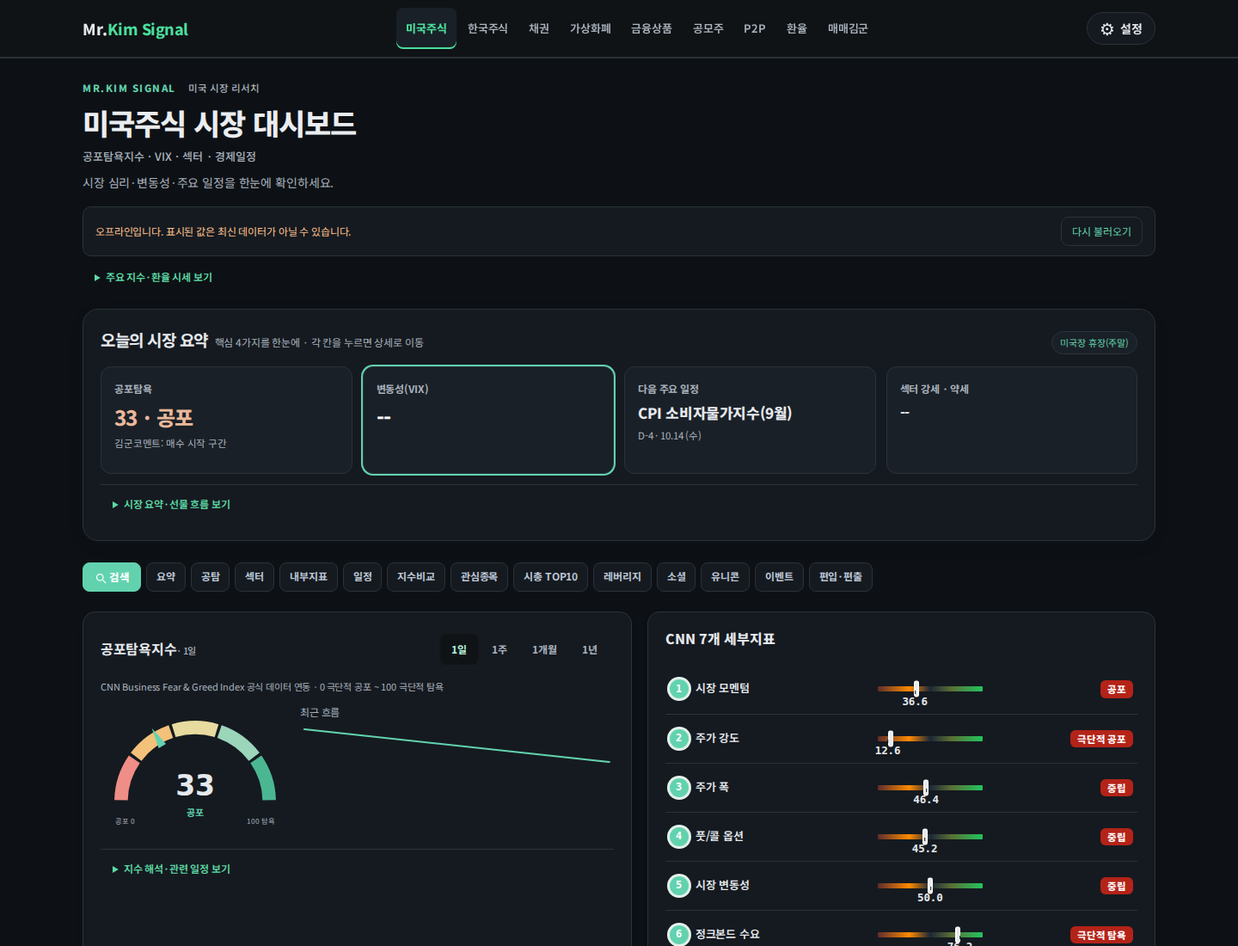
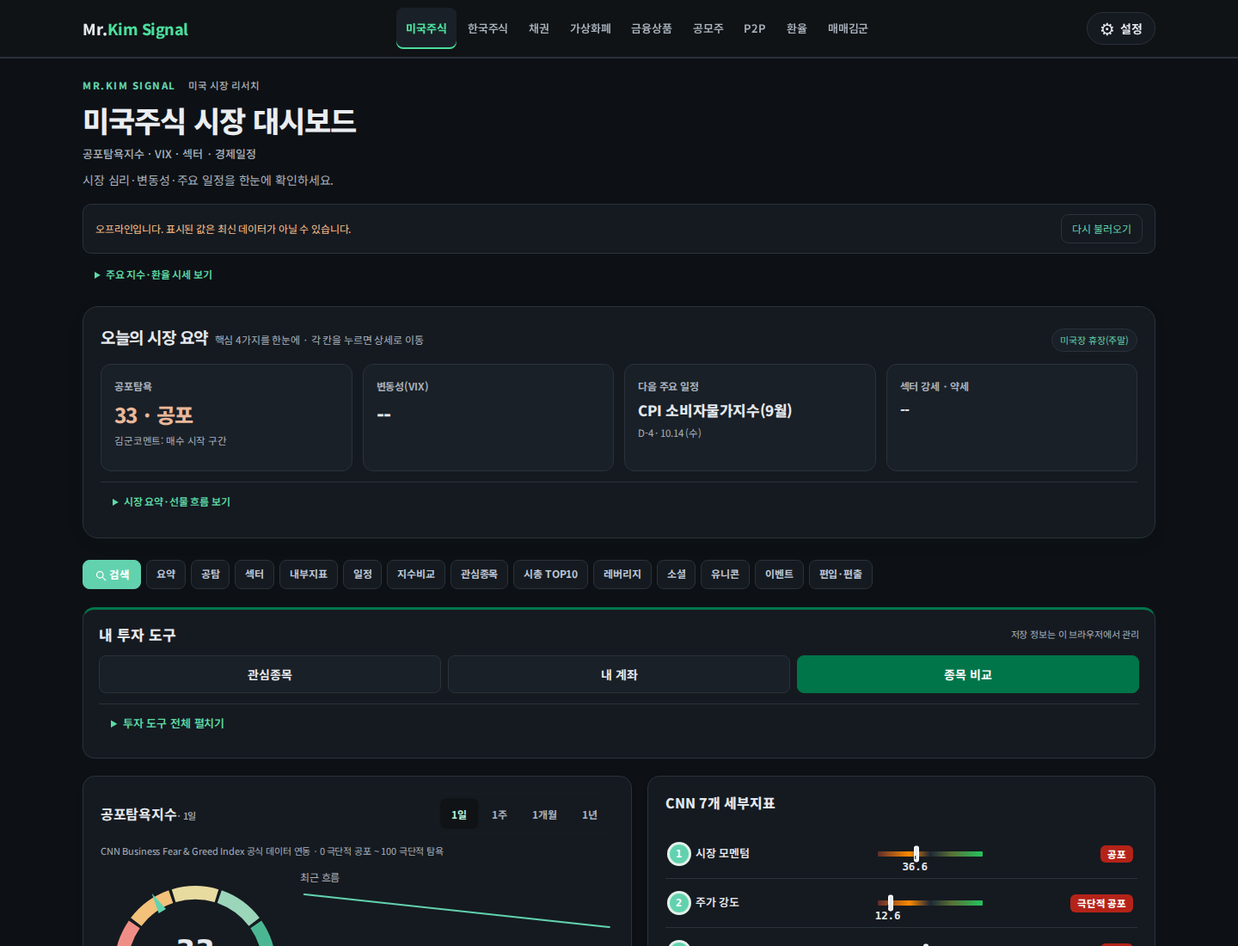
Add files via upload

diff --git a/stock-fold-v46.js b/stock-fold-v46.js
@@ -1,0 +1,62 @@
+/* 섹션 접기/펼치기 — 동일한 제목 바(폰트 20px·줄간격 1.4), 좌측 포인트 선, 요약 칩, 펼치기/접기 버튼. 기본은 접힘 */
+(function(){
+  const KR=document.body.classList.contains('kr');
+  const SUM_KR={
+    '투자자별 매매 동향 · 증시자금동향':()=>'개인·외국인·기관 · 예탁금·신용잔고',
+    '코스피·코스닥·대표종목 상대수익률 비교':()=>'그래프 + 상관관계',
+    '시가총액 TOP10 (코스피)':()=>'TOP10 (+11~20위)',
+    '시가총액 TOP10 (코스닥)':()=>'TOP10 (+11~20위)',
+    '레버리지 ETF':()=>'7종목 · 2배 레버리지',
+    '주요 이벤트 일정':()=>(new Date().getMonth()+1)+'월 일정 · 휴장일 · 월별 보기',
+    'KOSPI200 편입 · 편출 종목':()=>document.querySelectorAll('#kridx-tbl .wl-row').length+'종목 · 2025.12 · 2026.6 정기변경'
+  };
+  const SUM_US={
+    '주요 지수 ETF 상대수익률 비교':()=>'지수 5종 · 그래프 + 상관관계',
+    '김군 관심종목':()=>document.querySelectorAll('#tick-tbl .wl-row').length+'종목',
+    '시가총액 TOP10':()=>'TOP10 (+11~30위)',
+    '레버리지 ETF':()=>document.querySelectorAll('#lev-tbl .wl-row').length+'종목',
+    '유니콘 기업':()=>document.querySelectorAll('#unicorn .grid>.card').length+'개사',
+    '소셜 언급':()=>window.MK_SOC_SUM||'StockTwits 강세·약세 · Reddit 언급',
+    '주요 이벤트 일정':()=>(new Date().getMonth()+1)+'월 일정 · 휴장일 · 월별 보기',
+    '지수 편입 · 편출 종목':()=>document.querySelectorAll('#idxchg-tbl .wl-row').length+'종목 · S&P500·나스닥100'
+  };
+  const SUM=KR?SUM_KR:SUM_US;
+  function fold(h2){
+    if(!h2||h2.dataset.fold) return; h2.dataset.fold='1';
+    const nodes=[]; let n=h2.nextElementSibling;
+    while(n && n.tagName!=='H2'){ nodes.push(n); n=n.nextElementSibling; }
+    const box=document.createElement('div'); box.className='fold-body'; h2.after(box); nodes.forEach(x=>box.appendChild(x));
+    const title=h2.textContent.replace(/\s+/g,' ').trim();
+    const key=Object.keys(SUM).find(k=>title.indexOf(k)===0);
+    h2.className='fold-h'; h2.removeAttribute('style'); h2.id=h2.id||''; 
+    const FL=KR?' 🇰🇷':' 🇺🇸';
+    const flag=(title.indexOf('🇺🇸')>=0||title.indexOf('🇰🇷')>=0||key)?FL:'';
+    h2.innerHTML='<span class="fold-t">'+(key||title)+flag+'</span><span class="fold-sum"></span><button type="button" class="fold-btn"><em>펼치기</em> ➕</button>';
+    /* 제목(h2)의 의미는 유지하고, 펼침 조작은 안의 실제 버튼이 맡는다(키보드·스크린리더 접근) */
+    h2.cursor='pointer';
+    const sum=h2.querySelector('.fold-sum'), btn=h2.querySelector('.fold-btn'); btn.setAttribute('aria-expanded','false'); box.id=box.id||('fold-body-'+Math.random().toString(36).slice(2,8)); btn.setAttribute('aria-controls',box.id); btn.setAttribute('aria-label',(key||title)+' 펼치기/접기');
+    const LST=KR?{'시가총액 TOP10 (코스피)':'krcap-tbl','시가총액 TOP10 (코스닥)':'krkq-tbl','레버리지 ETF':'krlev-tbl'}:{'김군 관심종목':'tick-tbl','시가총액 TOP10':'cap-tbl','레버리지 ETF':'lev-tbl'};
+    const movers=id=>{ const a=[]; document.querySelectorAll('#'+id+' .wl-row').forEach(r=>{ const c=r.querySelector('.ch'); if(!c) return; const m=c.textContent.match(/([\d.]+)\s*%/); if(!m) return; const v=parseFloat(m[1])*(/▼|-|−/.test(c.textContent)?-1:1); a.push([r.dataset.t,v]); }); if(a.length<2) return ''; a.sort((x,y)=>y[1]-x[1]); const u=a[0],d=a[a.length-1]; const f=x=>(x[1]>=0?'▲':'▼')+Math.abs(x[1]).toFixed(2)+'%'; const up=a.filter(x=>x[1]>0).length, dn=a.filter(x=>x[1]<0).length; return '<span class="mv"><span class="mv-l">상승 '+up+' · 하락 '+dn+'</span><span class="mv-u">'+u[0]+' '+f(u)+'</span><span class="mv-d">'+d[0]+' '+f(d)+'</span></span>'; };
+    const refresh=()=>{ const id=LST[key]; const h=id?movers(id):''; if(h) sum.innerHTML=h; else sum.textContent=key?SUM[key]():''; };
+    refresh(); [1500,4000,9000].forEach(t=>setTimeout(refresh,t)); setInterval(refresh,15000);
+    const SK=(KR?'mk_fk_':'mk_f_')+(key||title); const set=open=>{ try{ localStorage.setItem(SK,open?'1':'0'); }catch(e){} box.style.display=open?'block':'none'; btn.innerHTML=open?'<em>접기</em> ➖':'<em>펼치기</em> ➕'; btn.setAttribute('aria-expanded',open?'true':'false'); h2.classList.toggle('open',open); refresh(); };
+    let init=false; try{ init=localStorage.getItem(SK)==='1'; }catch(e){}
+    set(init);
+    const tg=e=>{ if(e.target.closest('a')) return; set(box.style.display==='none'); };
+    h2.addEventListener('click',tg);
+    h2._set=set;
+  }
+  document.querySelectorAll('#stock > .wrap > h2, #unicorn > .wrap > h2, #events > .wrap > h2, #kr-stock > .wrap > h2').forEach(fold);
+  const all=[...document.querySelectorAll('h2.fold-h')];
+  if(all[0]){ const bar=document.createElement('div'); bar.className='fold-all'; bar.innerHTML='<button type="button" data-o="1">모두 펼치기 ➕</button><button type="button" data-o="0">모두 접기 ➖</button>'; all[0].before(bar); bar.addEventListener('click',e=>{ const b=e.target.closest('button'); if(!b) return; all.forEach(h=>h._set(b.dataset.o==='1')); }); }
+  const openByHash=()=>{ const h=location.hash&&document.querySelector(location.hash); if(h&&h._set) h._set(true); };
+  openByHash(); window.addEventListener('hashchange',openByHash);
+  /* 지연 로딩: 섹션을 처음 펼칠 때(또는 저장된 상태가 '펼침'일 때) 해당 데이터를 불러온다 */
+  (KR?[]:[['주요 지수 ETF',()=>{ loadIdxRelUS(); loadUSCorr(); }],['지수 편입',()=>loadTickGroup('idxchg')],['유니콘',()=>loadUnicornNews()]]).forEach(([k,fn])=>{
+    let done=false; const run=()=>{ if(done) return; done=true; try{ fn(); }catch(e){ console.warn('지연 로딩 실패',k,e); } };
+    const h=all.find(x=>{ const t=x.querySelector('.fold-t'); return t&&t.textContent.trim().indexOf(k)===0; });
+    if(!h){ run(); return; }
+    if(h.classList.contains('open')) run();
+    else new MutationObserver(()=>{ if(h.classList.contains('open')) run(); }).observe(h,{attributes:true,attributeFilter:['class']});
+  });
+})();

diff --git a/stock-fold-v45.js b/stock-fold-v45.js
@@ -1,0 +1,62 @@
+/* 섹션 접기/펼치기 — 동일한 제목 바(폰트 20px·줄간격 1.4), 좌측 포인트 선, 요약 칩, 펼치기/접기 버튼. 기본은 접힘 */
+(function(){
+  const KR=document.body.classList.contains('kr');
+  const SUM_KR={
+    '투자자별 매매 동향 · 증시자금동향':()=>'개인·외국인·기관 · 예탁금·신용잔고',
+    '코스피·코스닥·대표종목 상대수익률 비교':()=>'그래프 + 상관관계',
+    '시가총액 TOP10 (코스피)':()=>'TOP10 (+11~20위)',
+    '시가총액 TOP10 (코스닥)':()=>'TOP10 (+11~20위)',
+    '레버리지 ETF':()=>'7종목 · 2배 레버리지',
+    '주요 이벤트 일정':()=>(new Date().getMonth()+1)+'월 일정 · 휴장일 · 월별 보기',
+    'KOSPI200 편입 · 편출 종목':()=>document.querySelectorAll('#kridx-tbl .wl-row').length+'종목 · 2025.12 · 2026.6 정기변경'
+  };
+  const SUM_US={
+    '주요 지수 ETF 상대수익률 비교':()=>'지수 5종 · 그래프 + 상관관계',
+    '김군 관심종목':()=>document.querySelectorAll('#tick-tbl .wl-row').length+'종목',
+    '시가총액 TOP10':()=>'TOP10 (+11~30위)',
+    '레버리지 ETF':()=>document.querySelectorAll('#lev-tbl .wl-row').length+'종목',
+    '유니콘 기업':()=>'4개사 · Anthropic · OpenAI · Databricks · xAI',
+    '소셜 언급':()=>window.MK_SOC_SUM||'StockTwits 강세·약세 · Reddit 언급',
+    '주요 이벤트 일정':()=>(new Date().getMonth()+1)+'월 일정 · 휴장일 · 월별 보기',
+    '지수 편입 · 편출 종목':()=>document.querySelectorAll('#idxchg-tbl .wl-row').length+'종목 · S&P500·나스닥100'
+  };
+  const SUM=KR?SUM_KR:SUM_US;
+  function fold(h2){
+    if(!h2||h2.dataset.fold) return; h2.dataset.fold='1';
+    const nodes=[]; let n=h2.nextElementSibling;
+    while(n && n.tagName!=='H2'){ nodes.push(n); n=n.nextElementSibling; }
+    const box=document.createElement('div'); box.className='fold-body'; h2.after(box); nodes.forEach(x=>box.appendChild(x));
+    const title=h2.textContent.replace(/\s+/g,' ').trim();
+    const key=Object.keys(SUM).find(k=>title.indexOf(k)===0);
+    h2.className='fold-h'; h2.removeAttribute('style'); h2.id=h2.id||''; 
+    const FL=KR?' 🇰🇷':' 🇺🇸';
+    const flag=(title.indexOf('🇺🇸')>=0||title.indexOf('🇰🇷')>=0||key)?FL:'';
+    h2.innerHTML='<span class="fold-t">'+(key||title)+flag+'</span><span class="fold-sum"></span><button type="button" class="fold-btn"><em>펼치기</em> ➕</button>';
+    /* 제목(h2)의 의미는 유지하고, 펼침 조작은 안의 실제 버튼이 맡는다(키보드·스크린리더 접근) */
+    h2.cursor='pointer';
+    const sum=h2.querySelector('.fold-sum'), btn=h2.querySelector('.fold-btn'); btn.setAttribute('aria-expanded','false'); box.id=box.id||('fold-body-'+Math.random().toString(36).slice(2,8)); btn.setAttribute('aria-controls',box.id); btn.setAttribute('aria-label',(key||title)+' 펼치기/접기');
+    const LST=KR?{'시가총액 TOP10 (코스피)':'krcap-tbl','시가총액 TOP10 (코스닥)':'krkq-tbl','레버리지 ETF':'krlev-tbl'}:{'김군 관심종목':'tick-tbl','시가총액 TOP10':'cap-tbl','레버리지 ETF':'lev-tbl'};
+    const movers=id=>{ const a=[]; document.querySelectorAll('#'+id+' .wl-row').forEach(r=>{ const c=r.querySelector('.ch'); if(!c) return; const m=c.textContent.match(/([\d.]+)\s*%/); if(!m) return; const v=parseFloat(m[1])*(/▼|-|−/.test(c.textContent)?-1:1); a.push([r.dataset.t,v]); }); if(a.length<2) return ''; a.sort((x,y)=>y[1]-x[1]); const u=a[0],d=a[a.length-1]; const f=x=>(x[1]>=0?'▲':'▼')+Math.abs(x[1]).toFixed(2)+'%'; const up=a.filter(x=>x[1]>0).length, dn=a.filter(x=>x[1]<0).length; return '<span class="mv"><span class="mv-l">상승 '+up+' · 하락 '+dn+'</span><span class="mv-u">'+u[0]+' '+f(u)+'</span><span class="mv-d">'+d[0]+' '+f(d)+'</span></span>'; };
+    const refresh=()=>{ const id=LST[key]; const h=id?movers(id):''; if(h) sum.innerHTML=h; else sum.textContent=key?SUM[key]():''; };
+    refresh(); [1500,4000,9000].forEach(t=>setTimeout(refresh,t)); setInterval(refresh,15000);
+    const SK=(KR?'mk_fk_':'mk_f_')+(key||title); const set=open=>{ try{ localStorage.setItem(SK,open?'1':'0'); }catch(e){} box.style.display=open?'block':'none'; btn.innerHTML=open?'<em>접기</em> ➖':'<em>펼치기</em> ➕'; btn.setAttribute('aria-expanded',open?'true':'false'); h2.classList.toggle('open',open); refresh(); };
+    let init=false; try{ init=localStorage.getItem(SK)==='1'; }catch(e){}
+    set(init);
+    const tg=e=>{ if(e.target.closest('a')) return; set(box.style.display==='none'); };
+    h2.addEventListener('click',tg);
+    h2._set=set;
+  }
+  document.querySelectorAll('#stock > .wrap > h2, #unicorn > .wrap > h2, #events > .wrap > h2, #kr-stock > .wrap > h2').forEach(fold);
+  const all=[...document.querySelectorAll('h2.fold-h')];
+  if(all[0]){ const bar=document.createElement('div'); bar.className='fold-all'; bar.innerHTML='<button type="button" data-o="1">모두 펼치기 ➕</button><button type="button" data-o="0">모두 접기 ➖</button>'; all[0].before(bar); bar.addEventListener('click',e=>{ const b=e.target.closest('button'); if(!b) return; all.forEach(h=>h._set(b.dataset.o==='1')); }); }
+  const openByHash=()=>{ const h=location.hash&&document.querySelector(location.hash); if(h&&h._set) h._set(true); };
+  openByHash(); window.addEventListener('hashchange',openByHash);
+  /* 지연 로딩: 섹션을 처음 펼칠 때(또는 저장된 상태가 '펼침'일 때) 해당 데이터를 불러온다 */
+  (KR?[]:[['주요 지수 ETF',()=>{ loadIdxRelUS(); loadUSCorr(); }],['지수 편입',()=>loadTickGroup('idxchg')],['유니콘',()=>loadUnicornNews()]]).forEach(([k,fn])=>{
+    let done=false; const run=()=>{ if(done) return; done=true; try{ fn(); }catch(e){ console.warn('지연 로딩 실패',k,e); } };
+    const h=all.find(x=>{ const t=x.querySelector('.fold-t'); return t&&t.textContent.trim().indexOf(k)===0; });
+    if(!h){ run(); return; }
+    if(h.classList.contains('open')) run();
+    else new MutationObserver(()=>{ if(h.classList.contains('open')) run(); }).observe(h,{attributes:true,attributeFilter:['class']});
+  });
+})();

diff --git a/stock-tools-v46.css b/stock-tools-v46.css
@@ -1,0 +1,45 @@
+html body.pro.stock-v2 .stock-tools-hub{margin:16px 0 20px;padding:18px;background:var(--panel);border:1px solid var(--line);border-top:3px solid #00754a;border-radius:14px;min-width:0;box-sizing:border-box}
+html body.pro.stock-v2 .stock-tools-heading{display:flex;align-items:center;justify-content:space-between;gap:8px;flex-wrap:wrap;margin-bottom:12px}
+html body.pro.stock-v2 .stock-tools-heading h2{font-size:18px!important;font-weight:800!important;margin:0!important;color:var(--tx)}
+html body.pro.stock-v2 .stock-tools-heading>span{font-size:11px;color:var(--tx2)}
+html body.pro.stock-v2 .stock-tools-links{display:grid;grid-template-columns:repeat(3,minmax(0,1fr));gap:8px}
+html body.pro.stock-v2 .stock-tools-links button{min-height:44px;padding:9px 8px;background:var(--panel2);color:var(--tx);border:1px solid var(--line);border-radius:8px;font-weight:700;font-size:14px;cursor:pointer;box-sizing:border-box}
+html body.pro.stock-v2 .stock-tools-links button:is(.on,:hover,:focus-visible){background:#00754a!important;color:#fff!important;border-color:#00754a}
+html body.pro.stock-v2 .stock-tools-hub .stock-personal-details{margin:12px 0 0!important;padding:0!important;border:0;border-radius:0;background:transparent}
+html body.pro.stock-v2 .stock-tools-hub .stock-personal-details>summary{font-size:13px!important;font-weight:600!important;color:var(--tx2);min-height:44px;border-top:1px solid var(--line);border-radius:0!important}
+html body.pro.stock-v2 .stock-tools-hub :is(#my-wl,#mk-acct,#mk-cmp){scroll-margin-top:150px;margin-top:16px!important;min-width:0;box-sizing:border-box}
+html body.pro.stock-v2 .stock-tool-selected{outline:2px solid #00754a;outline-offset:2px}
+html body.pro.stock-v2 .stock-tool-field{display:flex;flex-direction:column;gap:5px;min-width:0;flex:1 1 120px;font-size:12px;font-weight:700;color:var(--tx2)}
+html body.pro.stock-v2 .stock-tool-field input{width:100%!important;min-width:0!important;box-sizing:border-box;font-size:14px!important;min-height:44px!important;margin:0!important}
+html body.pro.stock-v2 #my-wl .my-add{align-items:end}
+html body.pro.stock-v2 #my-wl .my-add>button{min-height:44px}
+html body.pro.stock-v2 #mk-acct .ac-add,html body.pro.stock-v2 #mk-cmp .cm-f{display:grid;grid-template-columns:repeat(3,minmax(0,1fr)) auto;align-items:end;gap:10px}
+html body.pro.stock-v2 :is(.ac-add,.cm-f)>button{min-height:44px;padding:8px 14px}
+html body.pro.stock-v2 .stock-tools-hub .card>h3{line-height:1.5;gap:8px;flex-wrap:wrap}
+@media(max-width:700px){
+ html body.pro.stock-v2 .stock-tools-hub{padding:14px;margin:14px 0 18px}
+ html body.pro.stock-v2 .stock-tools-heading{align-items:start;flex-direction:column}
+ html body.pro.stock-v2 .stock-tools-links{gap:6px}
+ html body.pro.stock-v2 .stock-tools-links button{font-size:13px;padding:8px 4px}
+ html body.pro.stock-v2 .stock-tools-hub :is(#my-wl,#mk-acct,#mk-cmp){scroll-margin-top:88px;padding:14px!important}
+ html body.pro.stock-v2 #mk-acct .ac-add{grid-template-columns:repeat(2,minmax(0,1fr))}
+ html body.pro.stock-v2 #mk-acct .ac-add>.stock-tool-field:first-child{grid-column:1/-1}
+ html body.pro.stock-v2 #mk-cmp .cm-f{grid-template-columns:repeat(3,minmax(0,1fr));gap:6px}
+ html body.pro.stock-v2 #mk-cmp .cm-f>button{grid-column:1/-1}
+ html body.pro.stock-v2 .stock-tools-hub .stock-personal-details>summary{font-size:12px!important;padding:12px 6px!important}
+}
+html body.pro.stock-v2 .stock-tool-field input{flex:0 0 44px!important;height:44px!important;max-height:44px!important}
+html body.pro.stock-v2 #ac-b td[colspan]{white-space:normal!important;overflow-wrap:anywhere;line-height:1.7}
+html body.pro.stock-v2 #my-wl .wl-list{display:block!important}
+html body.pro.stock-v2 #mk-acct .stock-tools-note{margin-top:12px;border-top:1px solid var(--line)}
+html body.pro.stock-v2 #mk-acct .stock-tools-note>summary{font-size:12px;color:var(--tx2);cursor:pointer;min-height:44px}
+html body.pro.stock-v2 .stock-tools-hub .card>h3>span:first-child{display:inline-flex;align-items:center;gap:7px}
+html body.pro.stock-v2 .stock-tool-icon{width:19px;height:19px;flex:none;fill:none;stroke:currentColor;stroke-width:1.7;stroke-linecap:round;stroke-linejoin:round}
+@media(max-width:700px){
+ html body.pro.stock-v2 #mk-acct .ac-t th:nth-child(1){width:24%}
+ html body.pro.stock-v2 #mk-acct .ac-t th:nth-child(4){width:18%}
+ html body.pro.stock-v2 #mk-acct .ac-t th:nth-child(5){width:20%}
+ html body.pro.stock-v2 #mk-acct .ac-t th:nth-child(6){width:18%}
+ html body.pro.stock-v2 #mk-acct .ac-t th:nth-child(9){width:20%;white-space:normal!important}
+ html body.pro.stock-v2 #mk-acct .ac-t th{font-size:11px!important;line-height:1.5}
+}

diff --git a/stock.html b/stock.html
@@ -4,8 +4,8 @@
 
 <meta charset="utf-8">
 <meta http-equiv="Content-Security-Policy" content="default-src 'self'; script-src 'self' 'unsafe-inline'; style-src 'self' 'unsafe-inline' https://fonts.googleapis.com; font-src 'self' https://fonts.gstatic.com data:; img-src 'self' data: https:; connect-src 'self' https://ai.coolzet.workers.dev; media-src 'none'; object-src 'none'; base-uri 'self'; form-action 'self'">
-<script src="stock-bootstrap.js?v=44"></script>
-<script src="stock-security.js?v=44"></script>
+<script src="stock-bootstrap.js?v=46"></script>
+<script src="stock-security.js?v=46"></script>
 <meta name="referrer" content="strict-origin-when-cross-origin">
 <meta name="viewport" content="width=device-width, initial-scale=1">
 <link rel="preconnect" href="https://fonts.googleapis.com">
@@ -353,7 +353,7 @@ footer{border-top:1px solid var(--line);padding:30px 0 44px;color:var(--tx2);fon
 .hm-kw{display:flex;gap:10px;flex-wrap:wrap;margin-bottom:12px}.hm-kw .hm-k{flex:1 1 320px;margin-bottom:0;min-width:0}
 #stock{padding-top:18px!important}#stock>.wrap>.sec-h{margin-bottom:0}#stock>.wrap>.sec-h .sub{margin-bottom:10px}
 @media(max-width:700px){#stock{padding-top:12px!important}}
-</style><link href="https://fonts.googleapis.com/css2?family=Noto+Sans+KR:wght@400;500;700&family=JetBrains+Mono:wght@400;500;700&display=swap" rel="stylesheet"><link rel="stylesheet" href="mrkim-pro.css?v=09442417"><link rel="stylesheet" href="mrkim-theme.css?v=1399affe"><script defer src="stock-gate-legacy.js?v=44"></script>
+</style><link href="https://fonts.googleapis.com/css2?family=Noto+Sans+KR:wght@400;500;700&family=JetBrains+Mono:wght@400;500;700&display=swap" rel="stylesheet"><link rel="stylesheet" href="mrkim-pro.css?v=09442417"><link rel="stylesheet" href="mrkim-theme.css?v=1399affe"><script defer src="stock-gate-legacy.js?v=46"></script>
 <style>
 /* 시장 한눈에 보기: 티커명 영역 높이 고정(글자 크기가 달라도 가격 블록 시작 위치 동일) · 등락 화살표 */
 .pulse .hm div.tl>span{display:flex;align-items:center;height:38px;padding-top:0;padding-bottom:0;line-height:1.2;box-sizing:border-box}
@@ -365,9 +365,11 @@ footer{border-top:1px solid var(--line);padding:30px 0 44px;color:var(--tx2);fon
 /* 탭이 많아지면 줄바꿈 */
 .pulse .hm-t{flex-wrap:wrap!important;row-gap:6px}
 </style>
-<link rel="stylesheet" href="stock-design-v2.css?v=44">
-<link rel="stylesheet" href="stock-layout-v3.css?v=44">
-<link rel="stylesheet" href="stock-fixes-v44.css?v=44">
+<link rel="stylesheet" href="stock-design-v2.css?v=46">
+<link rel="stylesheet" href="stock-layout-v3.css?v=46">
+<link rel="stylesheet" href="stock-fixes-v44.css?v=46">
+<link rel="stylesheet" href="stock-alignment-v45.css?v=46">
+<link rel="stylesheet" href="stock-tools-v46.css?v=46">
 </head>
 <body class="pro stock-v2">
 <a class="skip-link" href="#main">본문으로 건너뛰기</a>
@@ -779,22 +781,23 @@ footer{border-top:1px solid var(--line);padding:30px 0 44px;color:var(--tx2);fon
   </div>
 </footer>
 
-<script defer src="stock-common-v2.js?v=44"></script>
+<script defer src="stock-common-v2.js?v=46"></script>
 <script defer src="mrkim-pro.min.js?v=43c2f41f"></script>
 <script defer src="stock-page.js?v=ece9162e"></script>
 <script defer src="stock-fin.js?v=e8bfc40c"></script>
 <script defer src="stock-etf.js?v=8ebf5e9a"></script>
 
-<script defer src="stock-fold.js?v=f46fb660"></script>
+<script defer src="stock-fold-v46.js?v=46"></script>
 <script defer src="stock-pulse.js?v=d52a2b42"></script>
 <script defer src="stock-mobile.js?v=181f1920"></script>
-<script defer src="stock-ux-v2.js?v=44"></script>
+<script defer src="stock-ux-v2.js?v=46"></script>
 <script defer src="stock-asof.js?v=e2fd5216"></script>
 <script defer src="stock-sort.js?v=6c3f0096"></script>
-<script defer src="stock-extra.js?v=44"></script>
+<script defer src="stock-extra.js?v=46"></script>
 <script defer src="mrkim-invest.js?v=4c7dada6"></script>
-<script defer src="stock-dashboard-v2.js?v=44"></script>
-<script defer src="stock-layout-v3.js?v=44"></script>
-<script defer src="stock-fixes-v44.js?v=44"></script>
+<script defer src="stock-dashboard-v2.js?v=46"></script>
+<script defer src="stock-layout-v3.js?v=46"></script>
+<script defer src="stock-fixes-v44.js?v=46"></script>
+<script defer src="stock-tools-v46.js?v=46"></script>
 </body>
 </html>

diff --git a/stock-alignment-v45.css b/stock-alignment-v45.css
@@ -1,0 +1,39 @@
+/* Stable columns on the US page, including asynchronous data updates. */
+html body.pro.stock-v2 h2.fold-h,
+html body.pro.stock-v2 h2.fold-h.open{display:grid!important;grid-template-columns:minmax(0,38%) minmax(0,1fr) 84px;align-items:center;gap:10px!important;transform:none!important;padding:14px 16px!important}
+html body.pro.stock-v2 h2.fold-h .fold-t{grid-column:1;min-width:0}
+html body.pro.stock-v2 h2.fold-h .fold-sum{grid-column:2;order:0!important;min-width:0;padding:0!important;margin:0!important;text-align:left;line-height:1.5;white-space:nowrap!important;overflow:hidden;text-overflow:ellipsis}
+html body.pro.stock-v2 h2.fold-h .fold-btn{grid-column:3;order:0!important;justify-self:end;width:84px;box-sizing:border-box;margin:0!important;white-space:nowrap}
+html body.pro.stock-v2 h2.fold-h .fold-sum .mv{display:flex;align-items:center;gap:6px;flex-wrap:nowrap}
+html body.pro.stock-v2 h2.fold-h .fold-sum .mv>span{line-height:1.5;white-space:nowrap}
+@media(max-width:900px){
+ html body.pro.stock-v2 h2.fold-h,html body.pro.stock-v2 h2.fold-h.open{grid-template-columns:minmax(0,1fr) 84px;gap:8px!important}
+ html body.pro.stock-v2 h2.fold-h .fold-btn{grid-column:2;grid-row:1}
+ html body.pro.stock-v2 h2.fold-h .fold-sum{grid-column:1/-1;grid-row:2;white-space:normal!important;overflow:visible;overflow-wrap:anywhere}
+ html body.pro.stock-v2 h2.fold-h .fold-sum .mv{flex-wrap:wrap}
+}
+@media(min-width:1000px){
+ html body.pro.stock-v2 .wl-list:has(.wl-stats){display:block!important}
+ html body.pro.stock-v2 .wl-list:has(.wl-stats)>.wl-row{display:grid!important;position:relative;grid-template-columns:minmax(160px,1fr) minmax(310px,418px) 64px 160px 64px;column-gap:8px!important;align-items:center;padding:10px 12px 10px 20px!important;box-sizing:border-box}
+ html body.pro.stock-v2 .wl-list:has(.wl-stats)>.wl-row>.wl-bar{position:absolute;left:8px;top:8px;bottom:8px;width:4px!important;height:auto!important}
+ html body.pro.stock-v2 .wl-list:has(.wl-stats)>.wl-row>.wl-info{grid-column:1;grid-row:1;min-width:0}
+ html body.pro.stock-v2 .wl-list:has(.wl-stats)>.wl-row>.wl-stats{grid-column:2;grid-row:1;display:grid!important;width:100%!important;grid-template-columns:1.2fr 1.35fr .85fr 1.1fr 1.1fr .85fr!important;padding:0!important;gap:4px!important}
+ html body.pro.stock-v2 .wl-stats>:empty{min-height:35px}
+ html body.pro.stock-v2 .wl-list:has(.wl-stats)>.wl-row>.wl-spark{grid-column:3;grid-row:1;width:64px!important;margin:0!important}
+ html body.pro.stock-v2 .wl-list:has(.wl-stats)>.wl-row>.wl-quote{grid-column:4;grid-row:1;width:160px!important;min-width:0!important;box-sizing:border-box}
+ html body.pro.stock-v2 .wl-list:has(.wl-stats)>.wl-row>.wl-actions{grid-column:5;grid-row:1;min-width:0!important;margin:0!important;padding:0!important;box-sizing:border-box}
+ html body.pro.stock-v2 .wl-list:has(.wl-stats) .wl-52w .hm-ext{white-space:normal}
+}
+/* A mobile collapsed row still exposes a clear, real delete action. */
+@media(max-width:700px){
+ html body.pro.stock-v2 #my-wl .wl-row>.wl-actions{display:flex!important;flex:1 0 100%!important;order:9;justify-content:flex-end;flex-direction:row!important;padding:4px 0!important;border:0;gap:8px!important}
+ html body.pro.stock-v2 #my-wl .wl-row:not(.m-x)>.wl-actions>:not(.my-del){display:none!important}
+ html body.pro.stock-v2 #my-wl .wl-row>.wl-actions>.my-del{display:inline-flex!important;min-height:44px!important;min-width:72px!important;flex:0 0 auto!important}
+ html body.pro.stock-v2 #my-wl .wl-row>.wl-actions>.my-del svg{display:block!important;width:16px!important;height:16px!important}
+}
+@media(max-width:700px){
+ html body.pro.stock-v2 #my-wl .wl-row{display:flex!important;flex-wrap:wrap!important;align-items:center;box-sizing:border-box}
+ html body.pro.stock-v2 #my-wl .wl-row>.wl-info{flex:1 1 90px!important;min-width:0}
+ html body.pro.stock-v2 #my-wl .wl-row>.wl-quote{flex:0 0 auto!important;min-width:86px;max-width:50%}
+ html body.pro.stock-v2 #my-wl .wl-row>.wl-actions{min-width:0!important;margin:0!important;box-sizing:border-box}
+}

diff --git a/stock-tools-v46.js b/stock-tools-v46.js
@@ -1,0 +1,27 @@
+(function(){
+ 'use strict';
+ var personal=document.querySelector('.stock-personal-details'),brief=document.getElementById('pro-brief');if(!personal||!brief)return;
+ var hub=document.createElement('section');hub.className='stock-tools-hub';hub.setAttribute('aria-labelledby','stock-tools-title');
+ hub.innerHTML='<div class="stock-tools-heading"><h2 id="stock-tools-title">내 투자 도구</h2><span>저장 정보는 이 브라우저에서 관리</span></div><nav class="stock-tools-links" aria-label="내 투자 도구 바로가기"><button type="button" data-tool="my-wl">관심종목</button><button type="button" data-tool="mk-acct">내 계좌</button><button type="button" data-tool="mk-cmp">종목 비교</button></nav>';
+ var toc=document.getElementById('pro-toc');(toc||brief).after(hub);hub.appendChild(personal);
+ function syncDisclosure(){personal.querySelector('summary').textContent=personal.open?'투자 도구 접기':'투자 도구 전체 펼치기';}
+ syncDisclosure();personal.addEventListener('toggle',syncDisclosure);
+ ['my-wl','mk-acct','mk-cmp','mk-eve'].forEach(function(id){var e=document.getElementById(id);if(e)personal.appendChild(e);});
+ var icons={
+  'my-wl':['내 관심종목','<path d="m12 3 2.8 5.7 6.2.9-4.5 4.4 1.1 6.2-5.6-3-5.6 3 1.1-6.2L3 9.6l6.2-.9z"/>'],
+  'mk-acct':['내 계좌 · 손익·비중','<path d="M4 6h15v14H4zM4 6V4h13v2m-3 6h7v5h-7z"/>'],
+  'mk-cmp':['종목 비교','<circle cx="10" cy="10" r="6"/><path d="m15 15 6 6"/>']
+ };
+ Object.keys(icons).forEach(function(id){var h=document.querySelector('#'+id+' h3>span:first-child');if(!h)return;h.textContent=icons[id][0];var svg=document.createElementNS('http://www.w3.org/2000/svg','svg');svg.setAttribute('class','stock-tool-icon');svg.setAttribute('viewBox','0 0 24 24');svg.setAttribute('aria-hidden','true');svg.innerHTML=icons[id][1];h.prepend(svg);});
+ var pending=null;
+ hub.querySelector('.stock-tools-links').addEventListener('click',function(e){var b=e.target.closest('button[data-tool]');if(!b)return;var target=document.getElementById(b.dataset.tool);if(!target)return;
+  personal.open=true;
+  if(target.classList.contains('m-fold')&&!target.classList.contains('m-open')){var fold=target.querySelector('.m-fold-btn');if(fold)fold.click();}
+  hub.querySelectorAll('[data-tool]').forEach(function(x){var on=x===b;x.classList.toggle('on',on);if(on)x.setAttribute('aria-current','true');else x.removeAttribute('aria-current');});
+  if(pending)clearTimeout(pending);hub.querySelectorAll('.stock-tool-selected').forEach(function(x){x.classList.remove('stock-tool-selected');});target.classList.add('stock-tool-selected');pending=setTimeout(function(){target.classList.remove('stock-tool-selected');},1800);
+  target.scrollIntoView({behavior:matchMedia('(prefers-reduced-motion: reduce)').matches?'auto':'smooth',block:'start'});
+ });
+ function fields(selector,names){var form=document.querySelector(selector);if(!form)return;var fields=form.querySelectorAll('input:not([type=hidden])');fields.forEach(function(input,i){if(!names[i])return;var label=document.createElement('label');label.className='stock-tool-field';var span=document.createElement('span');span.textContent=names[i];input.before(label);label.appendChild(span);label.appendChild(input);});}
+ var note=document.querySelector('#mk-acct>p.mut');if(note){var extra=document.createElement('details');extra.className='stock-tools-note';var title=document.createElement('summary');title.textContent='계산 기준·데이터 안내';extra.appendChild(title);note.before(extra);extra.appendChild(note);}
+ fields('#my-wl .my-add',['종목 티커']);fields('#mk-acct .ac-add',['종목 티커','보유 수량','평균단가 ($)']);fields('#mk-cmp .cm-f',['비교 종목 1','비교 종목 2','비교 종목 3']);
+})();

diff --git a/stock-sw.js b/stock-sw.js
@@ -1,6 +1,6 @@
 /* Public US dashboard assets only; never cache API, credentials, other pages. */
-const CACHE='mk-stock-public-v44';
-const STATIC=new Set(['stock.html','stock-fixes-v44.css','stock-fixes-v44.js','stock-layout-v3.js','stock-layout-v3.css','stock-bootstrap.js','stock-security.js','stock-design-v2.css','stock-dashboard-v2.js','stock-extra.js','stock-gate-legacy.js','stock-ux-v2.js','stock-common-v2.js','mrkim-pro.min.js','mrkim-pro.css','mrkim-theme.css','stock-page.js','stock-fin.js','stock-etf.js','stock-fold.js','stock-pulse.js','stock-mobile.js','stock-asof.js','stock-sort.js','mrkim-invest.js']);
+const CACHE='mk-stock-public-v46';
+const STATIC=new Set(['stock.html','stock-fold-v46.js','stock-tools-v46.css','stock-tools-v46.js','stock-alignment-v45.css','stock-fold-v45.js','stock-fixes-v44.css','stock-fixes-v44.js','stock-layout-v3.js','stock-layout-v3.css','stock-bootstrap.js','stock-security.js','stock-design-v2.css','stock-dashboard-v2.js','stock-extra.js','stock-gate-legacy.js','stock-ux-v2.js','stock-common-v2.js','mrkim-pro.min.js','mrkim-pro.css','mrkim-theme.css','stock-page.js','stock-fin.js','stock-etf.js','stock-fold.js','stock-pulse.js','stock-mobile.js','stock-asof.js','stock-sort.js','mrkim-invest.js']);
 self.addEventListener('install',e=>e.waitUntil(self.skipWaiting()));
 self.addEventListener('activate',e=>e.waitUntil(caches.keys().then(keys=>Promise.all(keys.filter(k=>(k.startsWith('mk-stock-public-')&&k!==CACHE)).map(k=>caches.delete(k)))).then(()=>self.clients.claim())));
 self.addEventListener('fetch',e=>{
